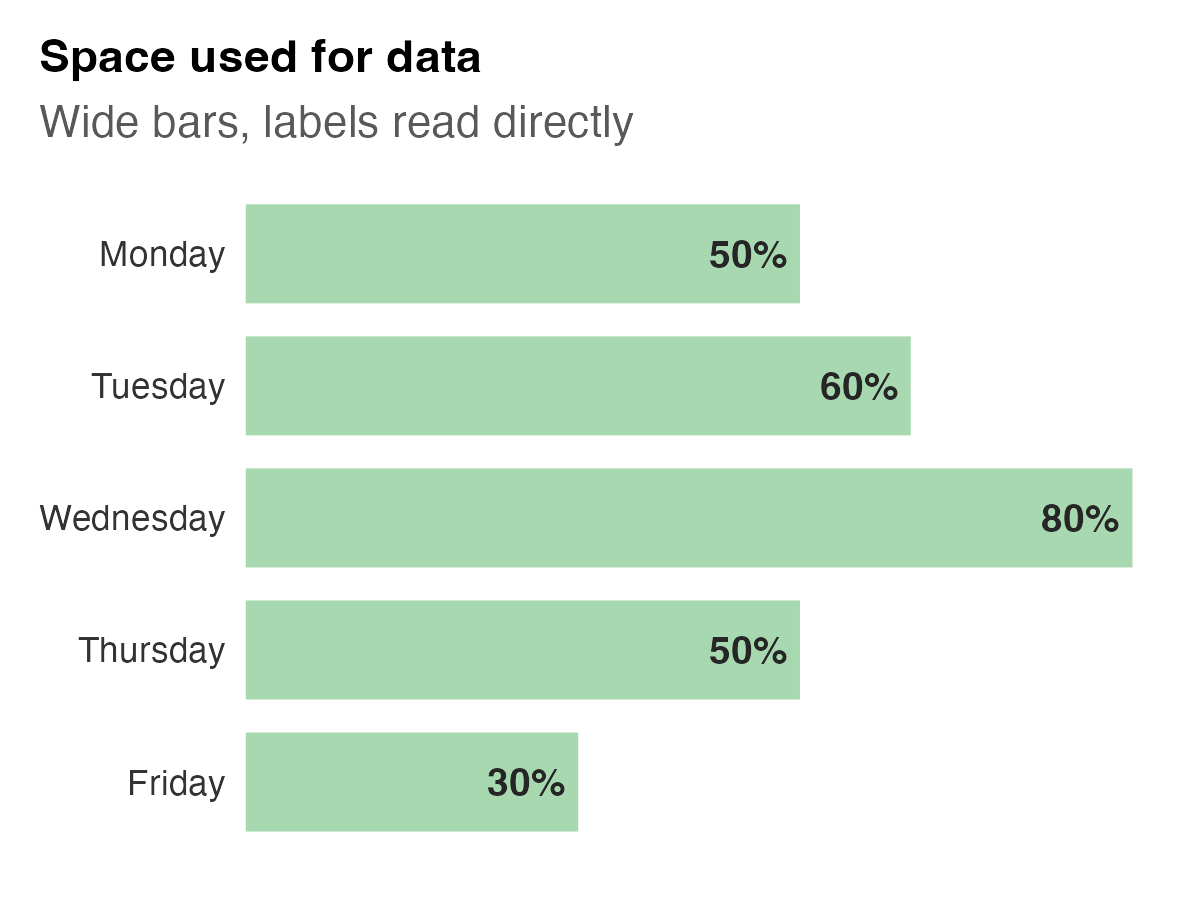
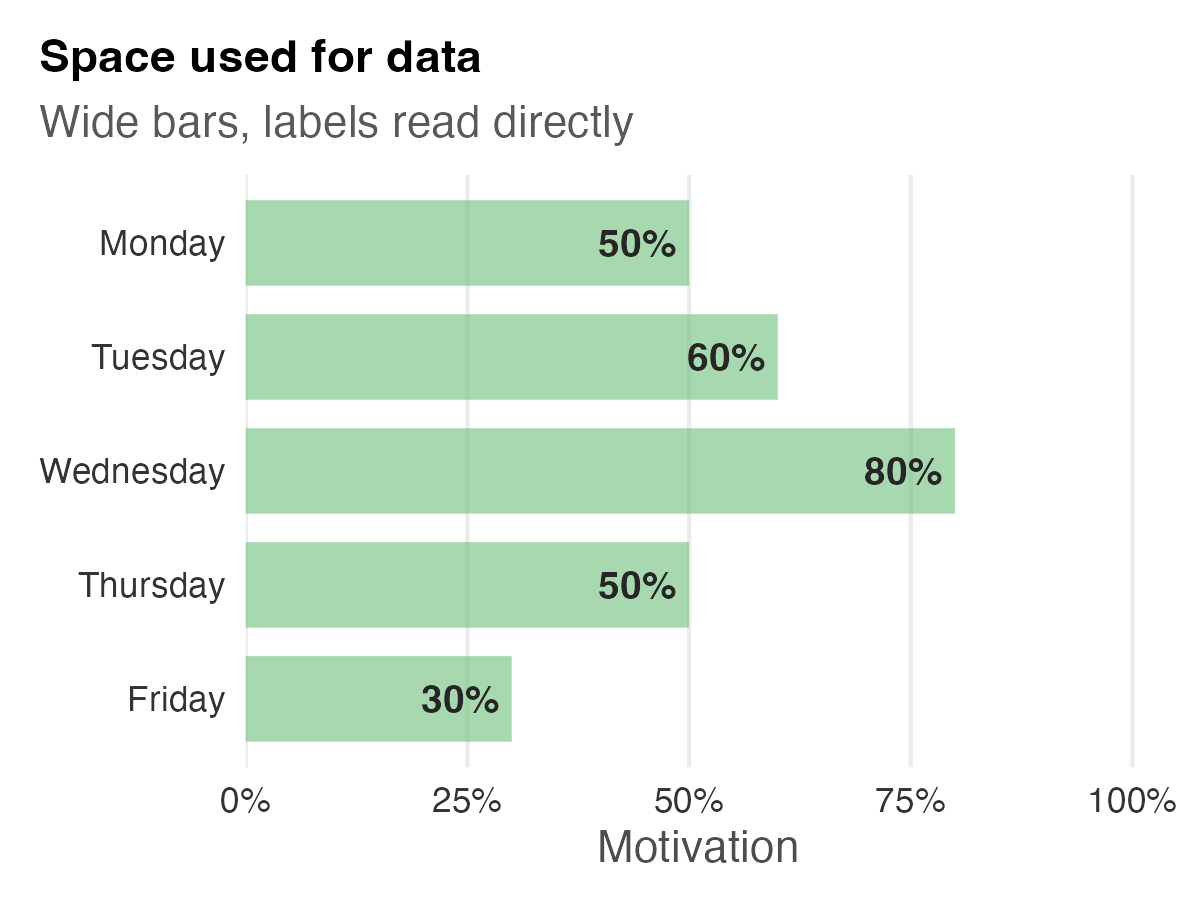
Finalised the examples

diff --git a/index.html b/index.html
@@ -793,7 +793,7 @@
       <section data-auto-animate>
         <h2>How visualize practically?</h2>
         <p class="text-sm text-muted" style="margin-top: -0.4rem;">
-          Eleven essential design principles for infectious disease models and analytics:
+           Essential design principles for infectious disease models and analytics:
         </p>
 
         <div class="principles-grid">
@@ -914,22 +914,33 @@
 
       <section data-auto-animate>
         <h2>Transparency</h2>
-        <img src="media/Transparency.png" alt="Transparency Example" style="max-height: 500px; border-radius: 8px; box-shadow: 0 4px 15px rgba(0,0,0,0.2);">
+        <div style="display: grid; grid-template-columns: 1fr 1fr; gap: 0.8rem; max-width: 740px; margin: 0 auto;">
+          <img src="media/transparency_example1.png" alt="Transparency Example 1" style="width: 100%; margin: 0; max-height: 300px; object-fit: contain; border-radius: 8px; box-shadow: 0 4px 15px rgba(0,0,0,0.2);">
+          <img src="media/transparency_example2.png" alt="Transparency Example 2" style="width: 100%; margin: 0; max-height: 300px; object-fit: contain; border-radius: 8px; box-shadow: 0 4px 15px rgba(0,0,0,0.2);">
+          <img src="media/transparency_example3.png" alt="Transparency Example 3" style="width: 100%; margin: 0; max-height: 300px; object-fit: contain; border-radius: 8px; box-shadow: 0 4px 15px rgba(0,0,0,0.2);">
+          <img src="media/transparency_example4.png" alt="Transparency Example 4" style="width: 100%; margin: 0; max-height: 300px; object-fit: contain; border-radius: 8px; box-shadow: 0 4px 15px rgba(0,0,0,0.2);">
+        </div>
       </section>
 
       <section data-auto-animate>
         <h2>Simplicity</h2>
-        <img src="media/Complexity.jpg" alt="Complexity Example" style="max-height: 500px; border-radius: 8px; box-shadow: 0 4px 15px rgba(0,0,0,0.2);">
+        <img src="media/simplicity_example.png" alt="Simplicity Example" style="max-height: 500px; border-radius: 8px; box-shadow: 0 4px 15px rgba(0,0,0,0.2);">
       </section>
 
       <section data-auto-animate>
         <h2>Reference Points</h2>
-        <img src="media/Reference_Example.png" alt="Reference Points Example" style="max-height: 500px; border-radius: 8px; box-shadow: 0 4px 15px rgba(0,0,0,0.2);">
+        <div style="display: flex; align-items: center; justify-content: center; gap: 1.25rem; max-width: 1100px; margin: 0 auto;">
+          <img src="media/reference_example1.png" alt="Reference at -10" style="max-height: 500px; width: 46%; object-fit: contain; border-radius: 8px; box-shadow: 0 4px 15px rgba(0,0,0,0.2);">
+          <img class="fragment fade-in" src="media/reference_example2.png" alt="Reference at 0" style="max-height: 500px; width: 46%; object-fit: contain; border-radius: 8px; box-shadow: 0 4px 15px rgba(0,0,0,0.2);">
+        </div>
       </section>
 
       <section data-auto-animate>
         <h2>Labels, Heading, Legends, ...</h2>
-        <img src="media/Figure legend.jpeg" alt="Labels, Heading, Legends Example" style="max-height: 500px; border-radius: 8px; box-shadow: 0 4px 15px rgba(0,0,0,0.2);">
+        <div style="display: flex; align-items: center; justify-content: center; gap: 1.25rem; max-width: 1100px; margin: 0 auto;">
+          <img src="media/labels_example1.png" alt="Labels Example 1" style="width: 48%; max-height: 420px; object-fit: contain; border-radius: 8px; box-shadow: 0 4px 15px rgba(0,0,0,0.2);">
+          <img src="media/labels_example2.png" alt="Labels Example 2" style="width: 48%; max-height: 420px; object-fit: contain; border-radius: 8px; box-shadow: 0 4px 15px rgba(0,0,0,0.2);">
+        </div>
       </section>
       </section>
 
